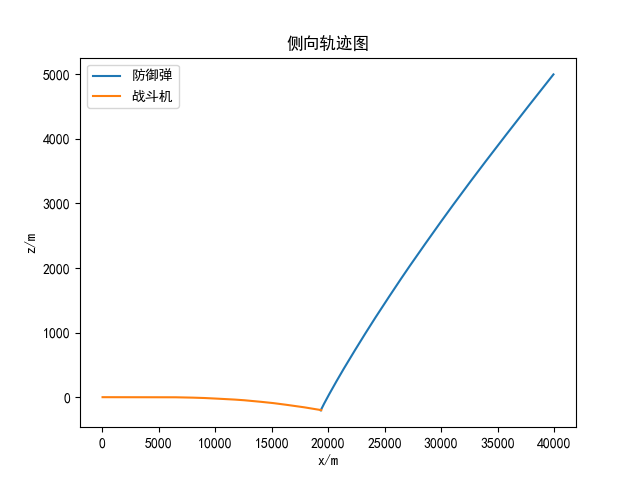
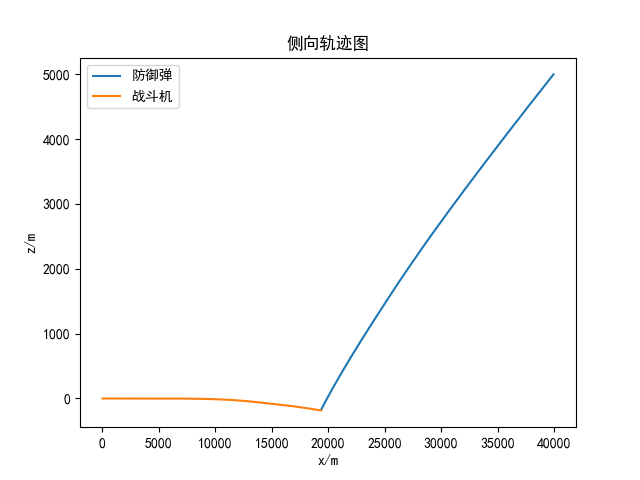
修复了bug

diff --git a/print.py b/print.py
@@ -55,14 +55,7 @@ ax.legend()
 
 
 
-plt.figure()
-plt.plot(myenv.plotdata["defender"]["x"] , myenv.plotdata["defender"]["y"] ,label = "防御弹")
-plt.plot(myenv.plotdata["fighter"]["x"] , myenv.plotdata["fighter"]["y"] , label = "战斗机")
-plt.title('纵向轨迹图')
-plt.xlabel('x/m')
-plt.ylabel('y/m')
-plt.legend()
-plt.savefig('fig\PPO二维仿真\纵向轨迹图.png')
+
 
 plt.figure()
 plt.plot(myenv.plotdata["defender"]["x"] , myenv.plotdata["defender"]["z"],label = "防御弹")
@@ -73,14 +66,7 @@ plt.ylabel('z/m')
 plt.legend()
 plt.savefig('fig\PPO二维仿真\侧向轨迹图.png')
 
-plt.figure()
-plt.plot(myenv.t_array , myenv.plotdata["defender"]["theta"],label = "防御弹")
-plt.plot(myenv.t_array , myenv.plotdata["fighter"]["theta"], label = "战斗机")
-plt.title('弹道倾角图')
-plt.xlabel('t/s')
-plt.ylabel('theta/rad')
-plt.legend()
-plt.savefig('fig\PPO二维仿真\弹道倾角图.png')
+
 
 plt.figure()
 plt.plot(myenv.t_array , myenv.plotdata["defender"]["psi"],label = "防御弹")
@@ -91,14 +77,7 @@ plt.ylabel('psi/rad')
 plt.legend()
 plt.savefig('fig\PPO二维仿真\弹道偏角图.png')
 
-plt.figure()
-plt.plot(myenv.t_array , myenv.plotdata["defender"]["a_y"],label = "防御弹")
-plt.plot(myenv.t_array , myenv.plotdata["fighter"]["a_y"], label = "战斗机")
-plt.title('纵向加速度图')
-plt.xlabel('t/s')
-plt.ylabel('a_y/(m s^-2)')
-plt.legend()
-plt.savefig('fig\PPO二维仿真\纵向加速度图.png')
+
 
 plt.figure()
 plt.plot(myenv.t_array , myenv.plotdata["defender"]["a_z"],label = "防御弹")

diff --git a/MyEnvs.py b/MyEnvs.py
@@ -575,7 +575,7 @@ class FighterEnv_2D(FighterEnv):
 
 
         self.a_y = 0
-        a_z = action * 9.81 * 2
+        a_z = action[0] * 9.81 * 2
 
         self.a_z = a_z
 
